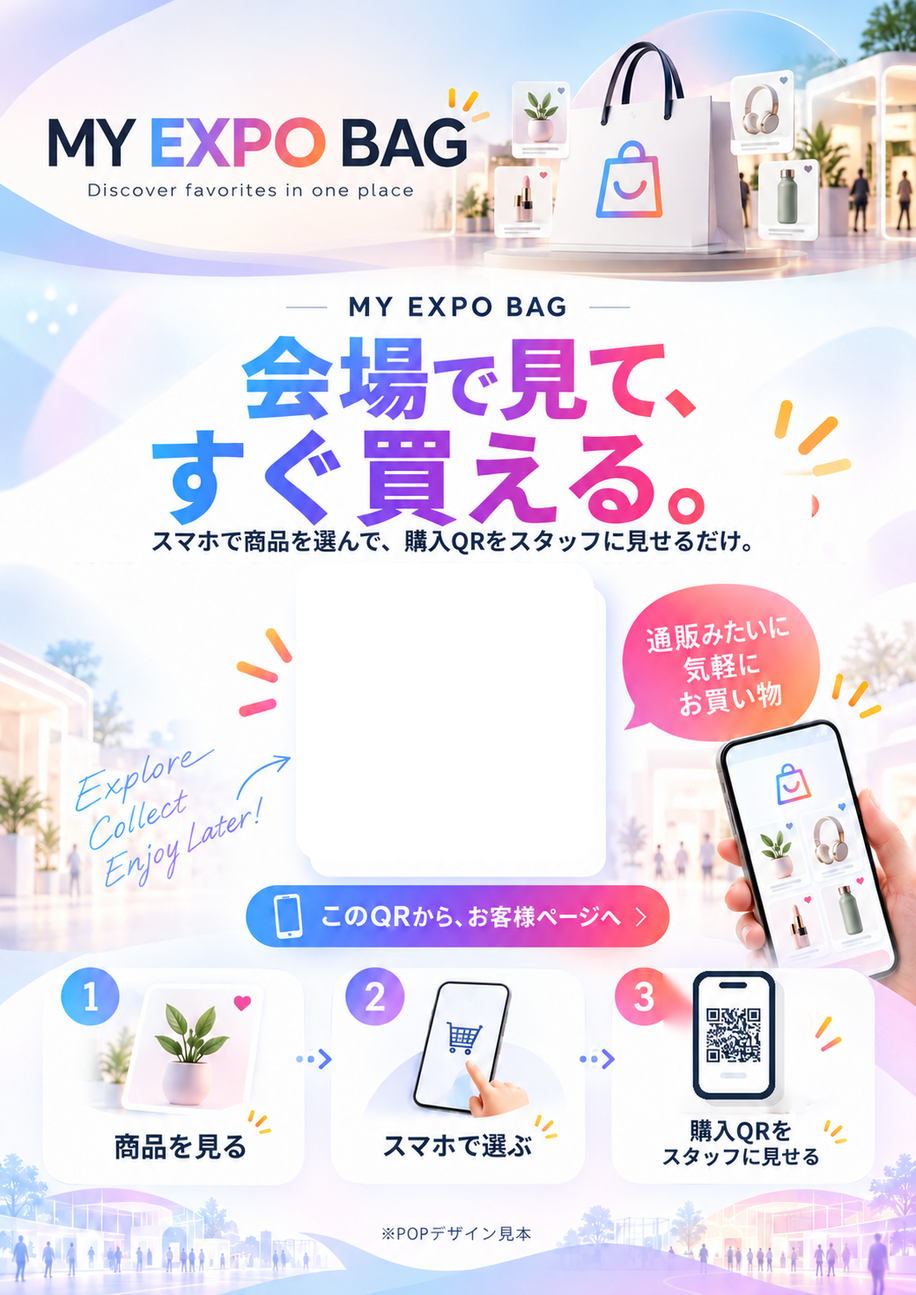
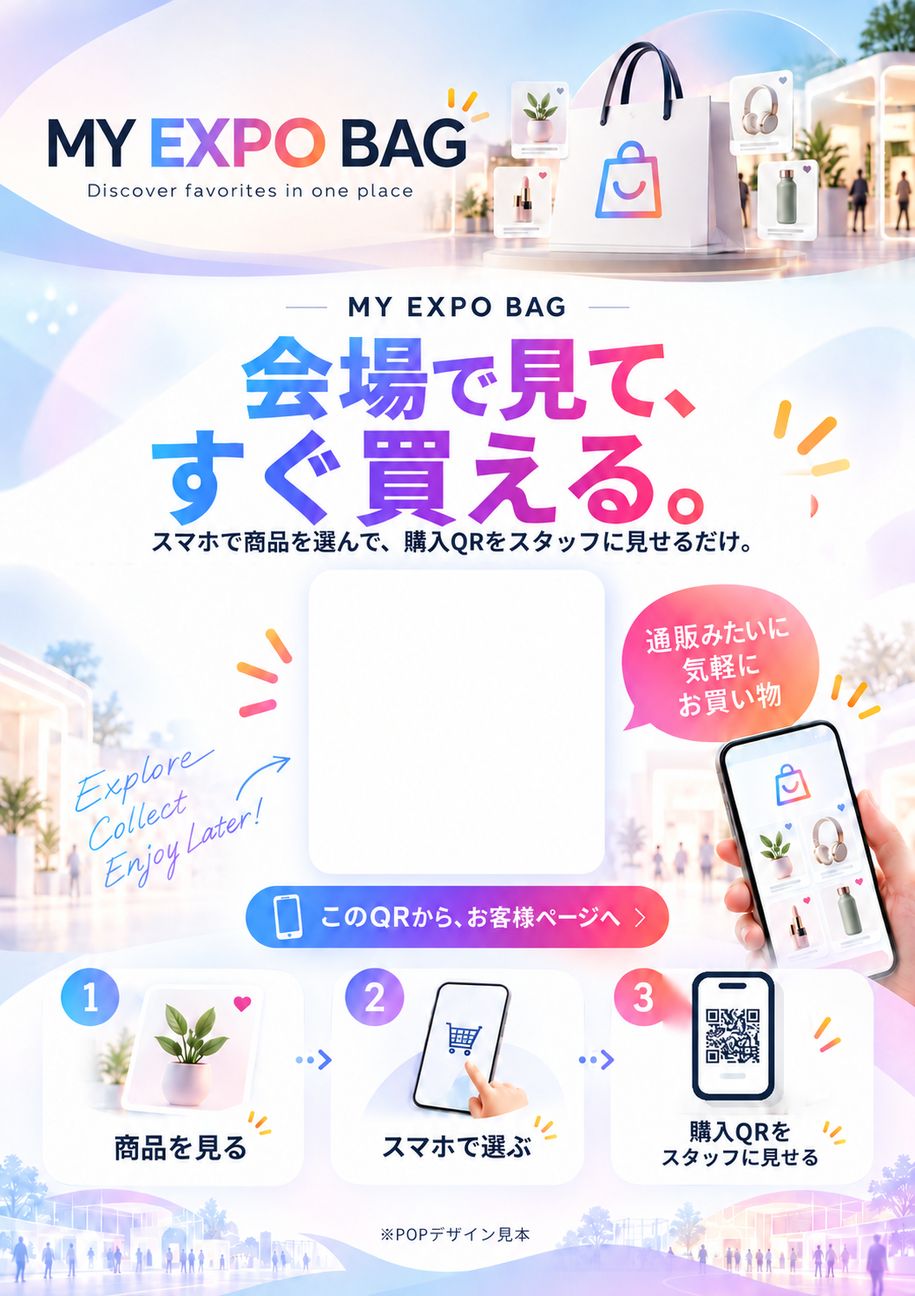
Add files via upload

diff --git a/pop-download.js b/pop-download.js
@@ -5,31 +5,60 @@ const $=id=>document.getElementById(id);
 const cfg=window.MEB_FIREBASE_CONFIG||{};
 const pageSizes={A1:[594,841],A2:[420,594],A3:[297,420],A4:[210,297],A5:[148,210]};
 const state={db:null,user:null,brand:null,slug:'',brandName:'',customerUrl:'',template:null,logo:null,qrCanvas:null};
-const templatePath='./assets/pop-template-no-qr.png';
-const logoPath='./assets/pop-qr-logo.png';
+const templatePath='./assets/pop-template-no-qr.png?v=20261016-qrcenter-v103';
+const logoPath='./assets/pop-qr-logo.png?v=20261016-qrcenter-v103';
 function setStatus(msg,error=false,target='status'){const el=$(target); if(el){el.textContent=msg; el.className='status '+(error?'error':'good');}}
 function loadImage(src){return new Promise((resolve,reject)=>{const img=new Image();img.onload=()=>resolve(img);img.onerror=()=>reject(new Error('画像を読み込めません: '+src));img.src=src;});}
 function customerUrlFor(slug){const url=new URL('./index.html',location.href);url.searchParams.set('brand',slug);return url.href;}
 function makeQrCore(text){const qr=new window.QRCodeCore(0,window.QRErrorCorrectLevel.H);qr.addData(text);qr.make();return qr;}
-function renderQrCanvas(text,size=1200){const qr=makeQrCore(text); const count=qr.getModuleCount(); const quiet=4; const cell=Math.max(2,Math.floor(size/(count+quiet*2))); const total=cell*(count+quiet*2); const canvas=document.createElement('canvas'); canvas.width=total; canvas.height=total; const ctx=canvas.getContext('2d'); ctx.fillStyle='#fff';ctx.fillRect(0,0,total,total);ctx.fillStyle='#111'; const offset=quiet*cell; for(let r=0;r<count;r++)for(let c=0;c<count;c++)if(qr.isDark(r,c))ctx.fillRect(offset+c*cell,offset+r*cell,cell,cell); return canvas; }
+// Deliver exactly 1080x1080 raster images, with intact QR modules and a proper quiet zone.
+function renderQrCanvas(text,size=1080){
+ const qr=makeQrCore(text), count=qr.getModuleCount(), quiet=4;
+ const totalModules=count+quiet*2,cell=Math.floor(size/totalModules);
+ if(cell<2)throw Error('URLが長すぎてQRを生成できません。');
+ const canvas=document.createElement('canvas'); canvas.width=size;canvas.height=size;
+ const ctx=canvas.getContext('2d');ctx.fillStyle='#fff';ctx.fillRect(0,0,size,size);
+ const origin=Math.floor((size-cell*totalModules)/2)+quiet*cell;
+ ctx.fillStyle='#111';
+ for(let row=0;row<count;row++)for(let col=0;col<count;col++)
+  if(qr.isDark(row,col))ctx.fillRect(origin+col*cell,origin+row*cell,cell,cell);
+ return canvas;
+}
 function addLogoToQr(baseCanvas,logoImage){const c=document.createElement('canvas'); c.width=baseCanvas.width; c.height=baseCanvas.height; const ctx=c.getContext('2d'); ctx.drawImage(baseCanvas,0,0); const s=Math.round(c.width*0.18); const x=(c.width-s)/2, y=(c.height-s)/2; const radius=Math.round(s*0.18); ctx.fillStyle='#fff'; roundRect(ctx,x,y,s,s,radius); ctx.fill(); ctx.save(); roundRect(ctx,x,y,s,s,radius); ctx.clip(); ctx.drawImage(logoImage,x+Math.round(s*0.07),y+Math.round(s*0.07),Math.round(s*0.86),Math.round(s*0.86)); ctx.restore(); return c; }
 function roundRect(ctx,x,y,w,h,r){ctx.beginPath();ctx.moveTo(x+r,y);ctx.arcTo(x+w,y,x+w,y+h,r);ctx.arcTo(x+w,y+h,x,y+h,r);ctx.arcTo(x,y+h,x,y,r);ctx.arcTo(x,y,x+w,y,r);ctx.closePath();}
+// QR is centered inside the SINGLE white rounded rectangle that already exists
+// in the approved 1054x1492 background. Do not paint a second rectangle.
+const POSTER_BASE_W=1054,POSTER_BASE_H=1492;
+const POSTER_QR={centerX:512,centerY:807,size:286};
 function composePoster(targetCanvas,template,qrCanvas){
- const ctx=targetCanvas.getContext('2d'); const w=targetCanvas.width,h=targetCanvas.height;
- ctx.clearRect(0,0,w,h); ctx.imageSmoothingEnabled=true;ctx.imageSmoothingQuality='high';ctx.drawImage(template,0,0,w,h);
- const sx=w/1055,sy=h/1491,qrX=364*sx,qrY=672*sy,qrW=295*sx,qrH=295*sy;
- ctx.fillStyle='#fff';roundRect(ctx,qrX-13*sx,qrY-13*sy,qrW+26*sx,qrH+26*sy,24*Math.min(sx,sy));ctx.fill();
- // Keep QR modules crisp rather than blurring them while resizing for a large POP.
- ctx.save();ctx.imageSmoothingEnabled=false;ctx.drawImage(qrCanvas,qrX,qrY,qrW,qrH);ctx.restore();
+ const ctx=targetCanvas.getContext('2d'),w=targetCanvas.width,h=targetCanvas.height;
+ ctx.clearRect(0,0,w,h);
+ ctx.imageSmoothingEnabled=true;ctx.imageSmoothingQuality='high';
+ ctx.drawImage(template,0,0,w,h);
+ const qrW=POSTER_QR.size*w/POSTER_BASE_W;
+ const qrH=POSTER_QR.size*h/POSTER_BASE_H;
+ const qrX=POSTER_QR.centerX*w/POSTER_BASE_W-qrW/2;
+ const qrY=POSTER_QR.centerY*h/POSTER_BASE_H-qrH/2;
+ // Original white card is preserved intact. Its center is (512,807).
+ ctx.save();ctx.imageSmoothingEnabled=false;
+ ctx.drawImage(qrCanvas,qrX,qrY,qrW,qrH);
+ ctx.restore();
 }
-function buildQrSvg(text,logoDataUrl){const qr=makeQrCore(text); const count=qr.getModuleCount(); const quiet=4; const total=count+quiet*2; let rects=''; for(let r=0;r<count;r++)for(let c=0;c<count;c++)if(qr.isDark(r,c))rects+=`<rect x="${c+quiet}" y="${r+quiet}" width="1" height="1" fill="#111"/>`; const logoSize=total*0.18; const logoPos=(total-logoSize)/2; const r=logoSize*0.18; const svg=`<svg xmlns="http://www.w3.org/2000/svg" width="${total}" height="${total}" viewBox="0 0 ${total} ${total}"><rect width="${total}" height="${total}" rx="2" fill="#fff"/>${rects}<rect x="${logoPos}" y="${logoPos}" width="${logoSize}" height="${logoSize}" rx="${r}" fill="#fff"/><image href="${logoDataUrl}" x="${logoPos+logoSize*0.07}" y="${logoPos+logoSize*0.07}" width="${logoSize*0.86}" height="${logoSize*0.86}" preserveAspectRatio="xMidYMid meet"/></svg>`; return svg; }
+function buildQrSvg(text,logoDataUrl){
+ const qr=makeQrCore(text),count=qr.getModuleCount(),quiet=4,total=count+quiet*2;
+ let rects='';for(let r=0;r<count;r++)for(let c=0;c<count;c++)
+  if(qr.isDark(r,c))rects+=`<rect x="${c+quiet}" y="${r+quiet}" width="1" height="1" fill="#111"/>`;
+ const logoSize=total*0.18,logoPos=(total-logoSize)/2,r=logoSize*0.18;
+ // SVG modules are vectors; the colored logo is embedded as PNG data.
+ return `<svg xmlns="http://www.w3.org/2000/svg" xmlns:xlink="http://www.w3.org/1999/xlink" width="1080" height="1080" viewBox="0 0 ${total} ${total}"><rect width="${total}" height="${total}" fill="#fff"/>${rects}<rect x="${logoPos}" y="${logoPos}" width="${logoSize}" height="${logoSize}" rx="${r}" fill="#fff"/><image href="${logoDataUrl}" xlink:href="${logoDataUrl}" x="${logoPos+logoSize*0.07}" y="${logoPos+logoSize*0.07}" width="${logoSize*0.86}" height="${logoSize*0.86}" preserveAspectRatio="xMidYMid meet"/></svg>`;
+}
 function downloadBlob(blob,name){const url=URL.createObjectURL(blob); const a=document.createElement('a'); a.href=url; a.download=name; document.body.append(a); a.click(); a.remove(); setTimeout(()=>URL.revokeObjectURL(url),1500);}
 async function canvasBlob(canvas,type,quality){return await new Promise(resolve=>canvas.toBlob(resolve,type,quality));}
 function selectedSizes(){return [...document.querySelectorAll('.size-check:checked')].map(el=>el.value);}
 function selectedFormats(){return [...document.querySelectorAll('.qr-format:checked')].map(el=>el.value);}
-async function ensureAssets(){if(!state.template)state.template=await loadImage(templatePath); if(!state.logo)state.logo=await loadImage(logoPath); if(!state.qrCanvas){const base=renderQrCanvas(state.customerUrl,1200); state.qrCanvas=addLogoToQr(base,state.logo);} return true;}
+async function ensureAssets(){if(!state.template)state.template=await loadImage(templatePath); if(!state.logo)state.logo=await loadImage(logoPath); if(!state.qrCanvas){const base=renderQrCanvas(state.customerUrl,1080); state.qrCanvas=addLogoToQr(base,state.logo);} return true;}
 async function drawPreview(){try{await ensureAssets(); composePoster($('preview-canvas'),state.template,state.qrCanvas); setStatus('プレビューを更新しました。',false,'preview-status');}catch(err){console.error(err);setStatus(err.message||'プレビューの描画に失敗しました。',true,'preview-status');}}
-async function downloadQrFiles(single=false){const formats=single?['png']:selectedFormats(); if(!formats.length){setStatus('QRの保存形式を1つ以上選択してください。',true);return;} try{setStatus('QRを生成しています…'); await ensureAssets(); const logoDataUrl=await (async()=>{const c=document.createElement('canvas');c.width=state.logo.naturalWidth;c.height=state.logo.naturalHeight;c.getContext('2d').drawImage(state.logo,0,0);return c.toDataURL('image/png');})(); const zip=(formats.length>1)?new window.JSZip():null; for(const fmt of formats){ if(fmt==='svg'){ const svg=buildQrSvg(state.customerUrl,logoDataUrl); const blob=new Blob([svg],{type:'image/svg+xml'}); if(zip)zip.file(`MY_EXPO_BAG_${state.slug}_customer_qr.svg`,blob); else downloadBlob(blob,`MY_EXPO_BAG_${state.slug}_customer_qr.svg`); } else { const mime=fmt==='jpg'?'image/jpeg':'image/png'; const blob=await canvasBlob(state.qrCanvas,mime,fmt==='jpg'?0.96:undefined); const ext=fmt==='jpg'?'jpg':'png'; if(zip)zip.file(`MY_EXPO_BAG_${state.slug}_customer_qr.${ext}`,blob); else downloadBlob(blob,`MY_EXPO_BAG_${state.slug}_customer_qr.${ext}`); } } if(zip){const blob=await zip.generateAsync({type:'blob'}); downloadBlob(blob,`MY_EXPO_BAG_${state.slug}_customer_qr.zip`);} setStatus('QRを保存しました。'); }catch(err){console.error(err);setStatus(err.message||'QRの保存に失敗しました。',true);} }
+async function downloadQrFiles(){const formats=selectedFormats(); if(!formats.length){setStatus('QRの保存形式を1つ以上選択してください。',true);return;} try{setStatus('QRを生成しています…'); await ensureAssets(); const logoDataUrl=await (async()=>{const c=document.createElement('canvas');c.width=state.logo.naturalWidth;c.height=state.logo.naturalHeight;c.getContext('2d').drawImage(state.logo,0,0);return c.toDataURL('image/png');})(); const zip=(formats.length>1)?new window.JSZip():null; for(const fmt of formats){ if(fmt==='svg'){ const svg=buildQrSvg(state.customerUrl,logoDataUrl); const blob=new Blob([svg],{type:'image/svg+xml'}); if(zip)zip.file(`MY_EXPO_BAG_${state.slug}_customer_qr.svg`,blob); else downloadBlob(blob,`MY_EXPO_BAG_${state.slug}_customer_qr.svg`); } else { const mime=fmt==='jpg'?'image/jpeg':'image/png'; const blob=await canvasBlob(state.qrCanvas,mime,fmt==='jpg'?0.96:undefined); const ext=fmt==='jpg'?'jpg':'png'; if(zip)zip.file(`MY_EXPO_BAG_${state.slug}_customer_qr.${ext}`,blob); else downloadBlob(blob,`MY_EXPO_BAG_${state.slug}_customer_qr.${ext}`); } } if(zip){const blob=await zip.generateAsync({type:'blob'}); downloadBlob(blob,`MY_EXPO_BAG_${state.slug}_customer_qr.zip`);} setStatus('QRを保存しました。'); }catch(err){console.error(err);setStatus(err.message||'QRの保存に失敗しました。',true);} }
 async function makePdfForSize(size){
  await ensureAssets();
  const [w,h]=pageSizes[size],dpi=300;
@@ -44,6 +73,6 @@ async function makePdfForSize(size){
  }finally{canvas.width=0;canvas.height=0;}
 }
 async function downloadPopFiles(){const sizes=selectedSizes(); if(!sizes.length){setStatus('POPサイズを1つ以上選択してください。',true);return;} try{setStatus('POP PDFを生成しています…選択数が多い場合は少し時間がかかります。'); await ensureAssets(); const zip=sizes.length>1?new window.JSZip():null; for(const size of sizes){const blob=await makePdfForSize(size); const name=`MY_EXPO_BAG_${state.slug}_POP_${size}.pdf`; if(zip)zip.file(name,blob); else downloadBlob(blob,name);} if(zip){const blob=await zip.generateAsync({type:'blob'}); downloadBlob(blob,`MY_EXPO_BAG_${state.slug}_POP_bundle.zip`);} setStatus('POPを保存しました。'); }catch(err){console.error(err);setStatus(err.message||'POPの生成に失敗しました。',true);} }
-function bindUi(){ $('refresh-preview').addEventListener('click',()=>drawPreview()); $('download-qr').addEventListener('click',()=>downloadQrFiles(false)); $('download-qr-single').addEventListener('click',()=>downloadQrFiles(true)); $('download-pop').addEventListener('click',()=>downloadPopFiles()); $('copy-url').addEventListener('click',async()=>{try{await navigator.clipboard.writeText(state.customerUrl); setStatus('URLをコピーしました。');}catch{setStatus('URLのコピーに失敗しました。',true);}}); $('size-all').addEventListener('change',e=>{document.querySelectorAll('.size-check').forEach(el=>el.checked=e.target.checked);}); document.querySelectorAll('.size-check').forEach(el=>el.addEventListener('change',()=>{const all=[...document.querySelectorAll('.size-check')]; const checked=all.filter(x=>x.checked).length; $('size-all').checked=checked===all.length; $('size-all').indeterminate=checked>0&&checked<all.length;}));}
+function bindUi(){ $('refresh-preview').addEventListener('click',()=>drawPreview()); $('download-qr').addEventListener('click',()=>downloadQrFiles()); $('download-pop').addEventListener('click',()=>downloadPopFiles()); $('copy-url').addEventListener('click',async()=>{try{await navigator.clipboard.writeText(state.customerUrl); setStatus('URLをコピーしました。');}catch{setStatus('URLのコピーに失敗しました。',true);}}); $('size-all').addEventListener('change',e=>{document.querySelectorAll('.size-check').forEach(el=>el.checked=e.target.checked);}); document.querySelectorAll('.size-check').forEach(el=>el.addEventListener('change',()=>{const all=[...document.querySelectorAll('.size-check')]; const checked=all.filter(x=>x.checked).length; $('size-all').checked=checked===all.length; $('size-all').indeterminate=checked>0&&checked<all.length;}));}
 async function init(){ if(!['apiKey','authDomain','projectId','appId'].every(k=>typeof cfg[k]==='string'&&cfg[k])){$('loading').textContent='Firebase設定をご確認ください。';return;} try{const app=getApps().length?getApp():initializeApp(cfg); state.db=getFirestore(app); onAuthStateChanged(getAuth(app),async user=>{ if(!user){location.replace('./login.html');return;} try{ const brandSnap=await getDoc(doc(state.db,'brands',user.uid)); if(!brandSnap.exists()||brandSnap.data().ownerUid!==user.uid)throw new Error('ブランド情報を確認できません。'); const brand=brandSnap.data(); state.user=user; state.brand=brand; state.slug=brand.slug; const handle=await getDocFromServer(doc(state.db,'brandHandles',state.slug)); state.brandName=handle.exists()?String(handle.data().displayName||state.slug):state.slug; state.customerUrl=customerUrlFor(state.slug); $('customer-url').textContent=state.customerUrl; $('loading').hidden=true; $('shell').hidden=false; bindUi(); await drawPreview(); }catch(err){console.error(err); $('loading').textContent='ブランド情報を読み込めませんでした。'; }});}catch(err){console.error(err); $('loading').textContent='画面を初期化できませんでした。'; }}
 init();

diff --git a/pop-download.html b/pop-download.html
@@ -4,4 +4,4 @@
 <link rel="apple-touch-icon" sizes="180x180" href="./myexpobag_admin_icon_180.png?v=20261016-icon-1">
 <link rel="manifest" href="./admin.webmanifest?v=20261016-icon-1">
 <meta name="apple-mobile-web-app-title" content="EXPO BAG管理">
-<meta charset="utf-8"><meta name="viewport" content="width=device-width,initial-scale=1,viewport-fit=cover"><meta name="robots" content="noindex,nofollow"><meta name="theme-color" content="#101d26"><meta name="apple-mobile-web-app-capable" content="yes"><title>POP・お客様QRダウンロード｜MY EXPO BAG</title><style>:root{font-family:-apple-system,BlinkMacSystemFont,"Noto Sans JP",Arial,sans-serif;color:#172d38;background:#f3f5f7}*{box-sizing:border-box}body{margin:0}button,input,select{font:inherit}button{cursor:pointer}input[type=checkbox]{width:18px;height:18px;accent-color:#275c74}.top{padding:calc(14px + env(safe-area-inset-top,0px)) 17px 15px;background:#101d26;color:#fff;display:flex;align-items:center;gap:12px}.top a{color:#fff;text-decoration:none;background:#304c5a;padding:9px 12px;border-radius:8px;font-size:13px}.wrap{max-width:980px;margin:0 auto;padding:16px 14px 90px}.grid{display:grid;grid-template-columns:1.1fr .9fr;gap:16px}.card{background:white;border:1px solid #e3e9ed;border-radius:16px;margin:0 0 16px;padding:20px}.card h2,.card h3{margin:0 0 10px}.help{color:#607583;font-size:12px;line-height:1.8}.status{font-size:13px;line-height:1.7;margin-top:8px;min-height:1.7em}.error{color:#ad302b}.good{color:#147048}.preview-wrap{display:flex;justify-content:center;background:linear-gradient(180deg,#f7fbff,#eef5fb);border-radius:12px;padding:14px;border:1px solid #e1e8ee}.preview-wrap canvas{max-width:100%;height:auto;border-radius:10px;box-shadow:0 12px 30px rgba(21,39,57,.10)}.urlbox{padding:10px 12px;border-radius:10px;background:#f4f8fb;border:1px solid #dbe5eb;font-size:12px;overflow-wrap:anywhere}.checkgrid{display:grid;grid-template-columns:repeat(3,minmax(0,1fr));gap:10px;margin-top:8px}.checkline{display:flex;align-items:center;gap:8px;padding:10px 12px;border:1px solid #dbe5eb;border-radius:12px;background:#f9fcfe}.format-row{display:flex;gap:8px;flex-wrap:wrap}.pill{display:inline-flex;align-items:center;gap:8px;border:1px solid #dbe5eb;padding:9px 12px;border-radius:999px;background:#f9fcfe}.actions{display:flex;gap:10px;flex-wrap:wrap}.primary,.secondary{border:0;border-radius:10px;padding:12px 16px;font-weight:800;min-height:46px}.primary{background:#163f51;color:#fff}.secondary{background:#edf5f8;color:#163f51;border:1px solid #d0e0e8}.note{font-size:12px;color:#516672;line-height:1.7;background:#fbfdff;border:1px solid #e4edf2;border-radius:12px;padding:12px 14px}.legend{display:flex;align-items:center;justify-content:space-between;gap:10px}.legend strong{font-size:14px}@media(max-width:860px){.grid{grid-template-columns:1fr}}</style></head><body><header class="top"><a href="./admin.html">← 管理</a><strong>POP・お客様QRダウンロード</strong></header><main class="wrap"><p id="loading" class="help" role="status">ブランド情報を読み込み中…</p><div id="shell" hidden><div class="grid"><section class="card"><div class="legend"><h2>POPデザイン プレビュー</h2><button type="button" class="secondary" id="refresh-preview">QRを反映して再描画</button></div><p class="help">確定済みのデザインをベースに、中央QRだけをこのブランド専用URLへ差し替えます。ダウンロードはお使いのブラウザ内で生成するため、FirebaseやGitHubへ画像を追加保存しません。</p><div class="preview-wrap"><canvas id="preview-canvas" width="1055" height="1491" aria-label="POPプレビュー"></canvas></div><p class="status" id="preview-status"></p></section><section><section class="card"><h3>ブランド専用 お客様ページQR</h3><p class="help">このQRは <strong>このブランドのURL</strong> にのみ接続されます。Aさん・Bさんが同時に使っても、同じブランドページを開くだけで、カートの中身はそれぞれの端末ごとに分離されます。</p><div class="urlbox" id="customer-url"></div><div class="actions" style="margin-top:12px"><button type="button" class="secondary" id="copy-url">URLをコピー</button><button type="button" class="secondary" id="download-qr-single">QRのみを今すぐ保存</button></div></section><section class="card"><h3>① POPをダウンロード</h3><p class="help">A1 / A2 / A3 / A4 / A5 のPDFを書き出します。複数選択時はZIPにまとめます。</p><div class="checkgrid"><label class="checkline"><input type="checkbox" class="size-check" value="A1">A1</label><label class="checkline"><input type="checkbox" class="size-check" value="A2">A2</label><label class="checkline"><input type="checkbox" class="size-check" value="A3">A3</label><label class="checkline"><input type="checkbox" class="size-check" value="A4" checked>A4</label><label class="checkline"><input type="checkbox" class="size-check" value="A5">A5</label><label class="checkline"><input type="checkbox" id="size-all">全部選択</label></div><div class="actions" style="margin-top:14px"><button type="button" class="primary" id="download-pop">POPをダウンロード</button></div><p class="note" style="margin-top:12px">PDFは各A判サイズの300dpiピクセル寸法で生成します。ただし背景の元画像は約1055×1491pxのため、A1などでは拡大処理となり、元画像以上の細部は増えません。QRはブランド専用URLのものを埋め込みます。</p></section><section class="card"><h3>② QRのみをダウンロード</h3><p class="help">PNG / JPG / SVG から選べます。複数選択時はZIPにまとめます。</p><div class="format-row"><label class="pill"><input type="checkbox" class="qr-format" value="png" checked>PNG</label><label class="pill"><input type="checkbox" class="qr-format" value="jpg">JPG</label><label class="pill"><input type="checkbox" class="qr-format" value="svg">SVG</label></div><div class="actions" style="margin-top:14px"><button type="button" class="primary" id="download-qr">QRのみをダウンロード</button></div></section><section class="card"><h3>メモ</h3><ul class="help"><li>POP生成・QR生成はブラウザ内で行うため、追加の保存課金を増やしません。</li><li>QR中央には MY EXPO BAG のロゴを配置します。</li><li>現在の実装では、POPの背景は確定デザイン画像をベースにしています。</li></ul><p class="status" id="status"></p></section></section></div></div></main><script src="./firebase-config.js"></script><script src="./qr.js"></script><script src="https://cdnjs.cloudflare.com/ajax/libs/jspdf/2.5.1/jspdf.umd.min.js" defer></script><script src="https://cdnjs.cloudflare.com/ajax/libs/jszip/3.10.1/jszip.min.js" defer></script><script type="module" src="./pop-download.js?asset=20261016-pop-feature-v102"></script><div class="meb-copyright">© 2021–2026 dobhar-chu</div></body></html>
+<meta charset="utf-8"><meta name="viewport" content="width=device-width,initial-scale=1,viewport-fit=cover"><meta name="robots" content="noindex,nofollow"><meta name="theme-color" content="#101d26"><meta name="apple-mobile-web-app-capable" content="yes"><title>POP・お客様QRダウンロード｜MY EXPO BAG</title><style>:root{font-family:-apple-system,BlinkMacSystemFont,"Noto Sans JP",Arial,sans-serif;color:#172d38;background:#f3f5f7}*{box-sizing:border-box}body{margin:0}button,input,select{font:inherit}button{cursor:pointer}input[type=checkbox]{width:18px;height:18px;accent-color:#275c74}.top{padding:calc(14px + env(safe-area-inset-top,0px)) 17px 15px;background:#101d26;color:#fff;display:flex;align-items:center;gap:12px}.top a{color:#fff;text-decoration:none;background:#304c5a;padding:9px 12px;border-radius:8px;font-size:13px}.wrap{max-width:980px;margin:0 auto;padding:16px 14px 90px}.grid{display:grid;grid-template-columns:1.1fr .9fr;gap:16px}.card{background:white;border:1px solid #e3e9ed;border-radius:16px;margin:0 0 16px;padding:20px}.card h2,.card h3{margin:0 0 10px}.help{color:#607583;font-size:12px;line-height:1.8}.status{font-size:13px;line-height:1.7;margin-top:8px;min-height:1.7em}.error{color:#ad302b}.good{color:#147048}.preview-wrap{display:flex;justify-content:center;background:linear-gradient(180deg,#f7fbff,#eef5fb);border-radius:12px;padding:14px;border:1px solid #e1e8ee}.preview-wrap canvas{max-width:100%;height:auto;border-radius:10px;box-shadow:0 12px 30px rgba(21,39,57,.10)}.urlbox{padding:10px 12px;border-radius:10px;background:#f4f8fb;border:1px solid #dbe5eb;font-size:12px;overflow-wrap:anywhere}.checkgrid{display:grid;grid-template-columns:repeat(3,minmax(0,1fr));gap:10px;margin-top:8px}.checkline{display:flex;align-items:center;gap:8px;padding:10px 12px;border:1px solid #dbe5eb;border-radius:12px;background:#f9fcfe}.format-row{display:flex;gap:8px;flex-wrap:wrap}.pill{display:inline-flex;align-items:center;gap:8px;border:1px solid #dbe5eb;padding:9px 12px;border-radius:999px;background:#f9fcfe}.actions{display:flex;gap:10px;flex-wrap:wrap}.primary,.secondary{border:0;border-radius:10px;padding:12px 16px;font-weight:800;min-height:46px}.primary{background:#163f51;color:#fff}.secondary{background:#edf5f8;color:#163f51;border:1px solid #d0e0e8}.note{font-size:12px;color:#516672;line-height:1.7;background:#fbfdff;border:1px solid #e4edf2;border-radius:12px;padding:12px 14px}.legend{display:flex;align-items:center;justify-content:space-between;gap:10px}.legend strong{font-size:14px}@media(max-width:860px){.grid{grid-template-columns:1fr}}</style></head><body><header class="top"><a href="./admin.html">← 管理</a><strong>POP・お客様QRダウンロード</strong></header><main class="wrap"><p id="loading" class="help" role="status">ブランド情報を読み込み中…</p><div id="shell" hidden><div class="grid"><section class="card"><div class="legend"><h2>POPデザイン プレビュー</h2><button type="button" class="secondary" id="refresh-preview">QRを反映して再描画</button></div><p class="help">確定済みのデザインをベースに、中央QRだけをこのブランド専用URLへ差し替えます。ダウンロードはお使いのブラウザ内で生成するため、FirebaseやGitHubへ画像を追加保存しません。</p><div class="preview-wrap"><canvas id="preview-canvas" width="1054" height="1492" aria-label="POPプレビュー"></canvas></div><p class="status" id="preview-status"></p></section><section><section class="card"><h3>ブランド専用 お客様ページQR</h3><p class="help">このQRは <strong>このブランドのURL</strong> にのみ接続されます。Aさん・Bさんが同時に使っても、同じブランドページを開くだけで、カートの中身はそれぞれの端末ごとに分離されます。</p><div class="urlbox" id="customer-url"></div><div class="actions" style="margin-top:12px"><button type="button" class="secondary" id="copy-url">URLをコピー</button></div></section><section class="card"><h3>① POPをダウンロード</h3><p class="help">A1 / A2 / A3 / A4 / A5 のPDFを書き出します。複数選択時はZIPにまとめます。</p><div class="checkgrid"><label class="checkline"><input type="checkbox" class="size-check" value="A1">A1</label><label class="checkline"><input type="checkbox" class="size-check" value="A2">A2</label><label class="checkline"><input type="checkbox" class="size-check" value="A3">A3</label><label class="checkline"><input type="checkbox" class="size-check" value="A4" checked>A4</label><label class="checkline"><input type="checkbox" class="size-check" value="A5">A5</label><label class="checkline"><input type="checkbox" id="size-all">全部選択</label></div><div class="actions" style="margin-top:14px"><button type="button" class="primary" id="download-pop">POPをダウンロード</button></div><p class="note" style="margin-top:12px">PDFは各A判サイズの300dpiピクセル寸法で生成します。ただし背景の元画像は約1055×1491pxのため、A1などでは拡大処理となり、元画像以上の細部は増えません。QRはブランド専用URLのものを埋め込みます。</p></section><section class="card"><h3>② QRのみをダウンロード</h3><p class="help">PNG・JPGは1080×1080pxです。SVGはQRの図形がベクターで、中央のカラーロゴを画像として埋め込みます。複数選択時はZIPにまとめます。</p><div class="format-row"><label class="pill"><input type="checkbox" class="qr-format" value="png" checked>PNG</label><label class="pill"><input type="checkbox" class="qr-format" value="jpg">JPG</label><label class="pill"><input type="checkbox" class="qr-format" value="svg">SVG</label></div><div class="actions" style="margin-top:14px"><button type="button" class="primary" id="download-qr">QRのみをダウンロード</button></div></section><section class="card"><h3>メモ</h3><ul class="help"><li>POP生成・QR生成はブラウザ内で行うため、追加の保存課金を増やしません。</li><li>QR中央には MY EXPO BAG のロゴを配置します。</li><li>現在の実装では、POPの背景は確定デザイン画像をベースにしています。</li></ul><p class="status" id="status"></p></section></section></div></div></main><script src="./firebase-config.js"></script><script src="./qr.js"></script><script src="https://cdnjs.cloudflare.com/ajax/libs/jspdf/2.5.1/jspdf.umd.min.js" defer></script><script src="https://cdnjs.cloudflare.com/ajax/libs/jszip/3.10.1/jszip.min.js" defer></script><script type="module" src="./pop-download.js?asset=20261016-pop-centered-qr1080-v103"></script><div class="meb-copyright">© 2021–2026 dobhar-chu</div></body></html>
